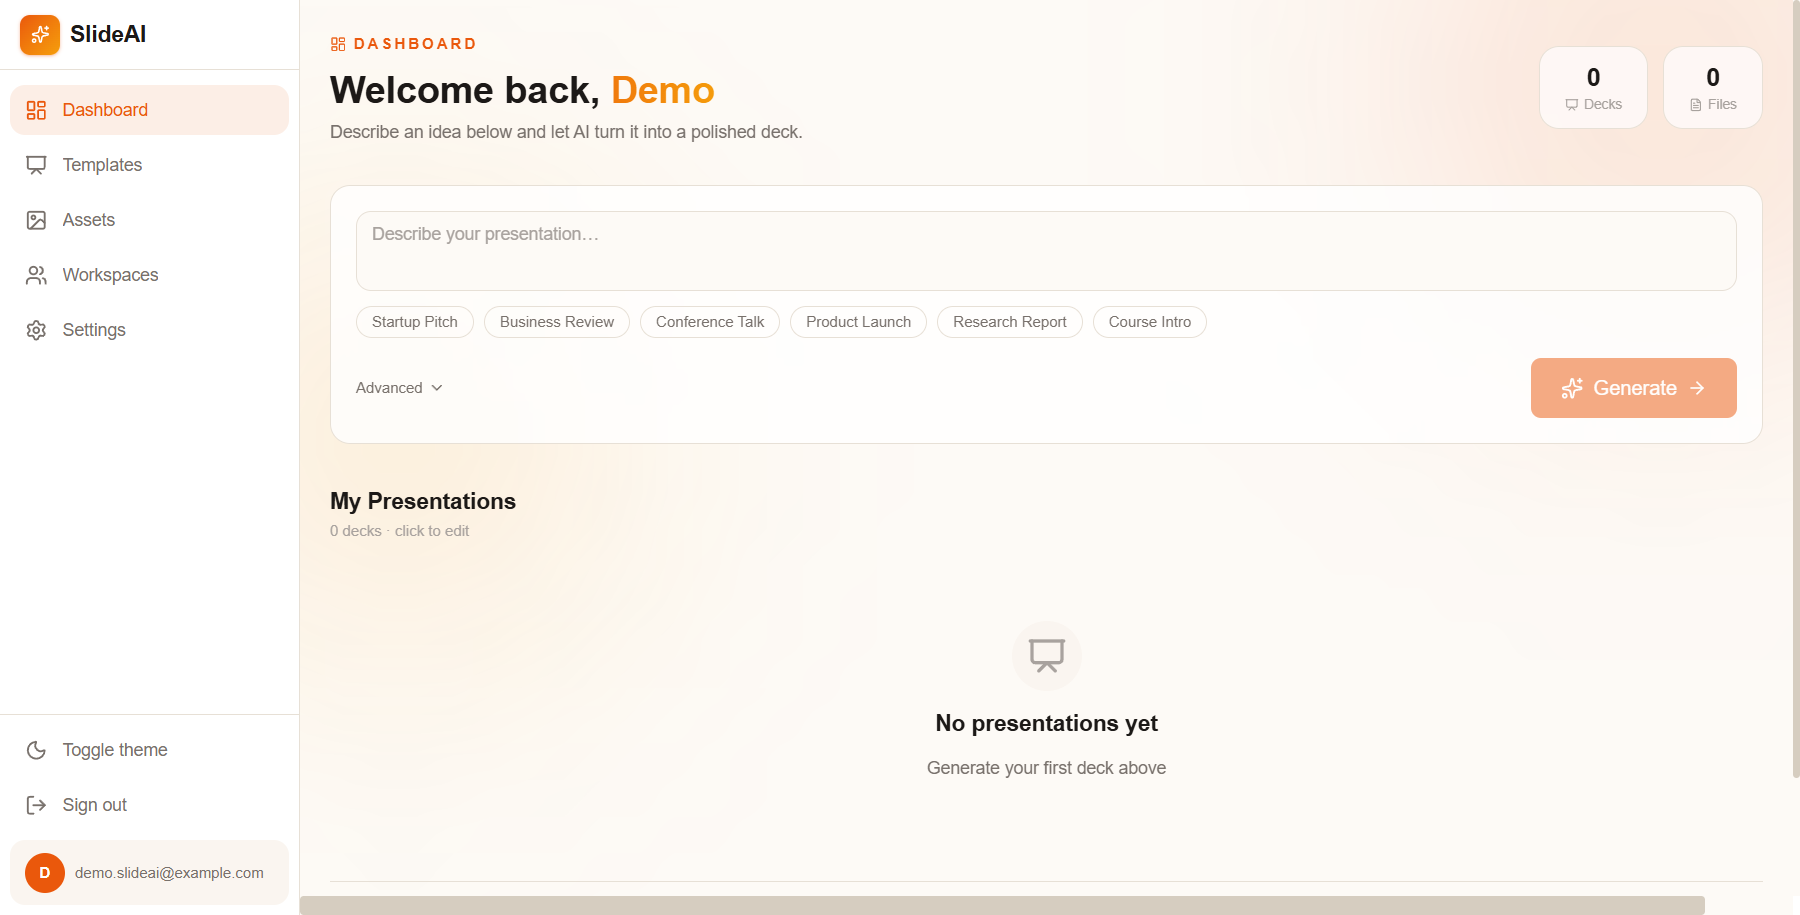
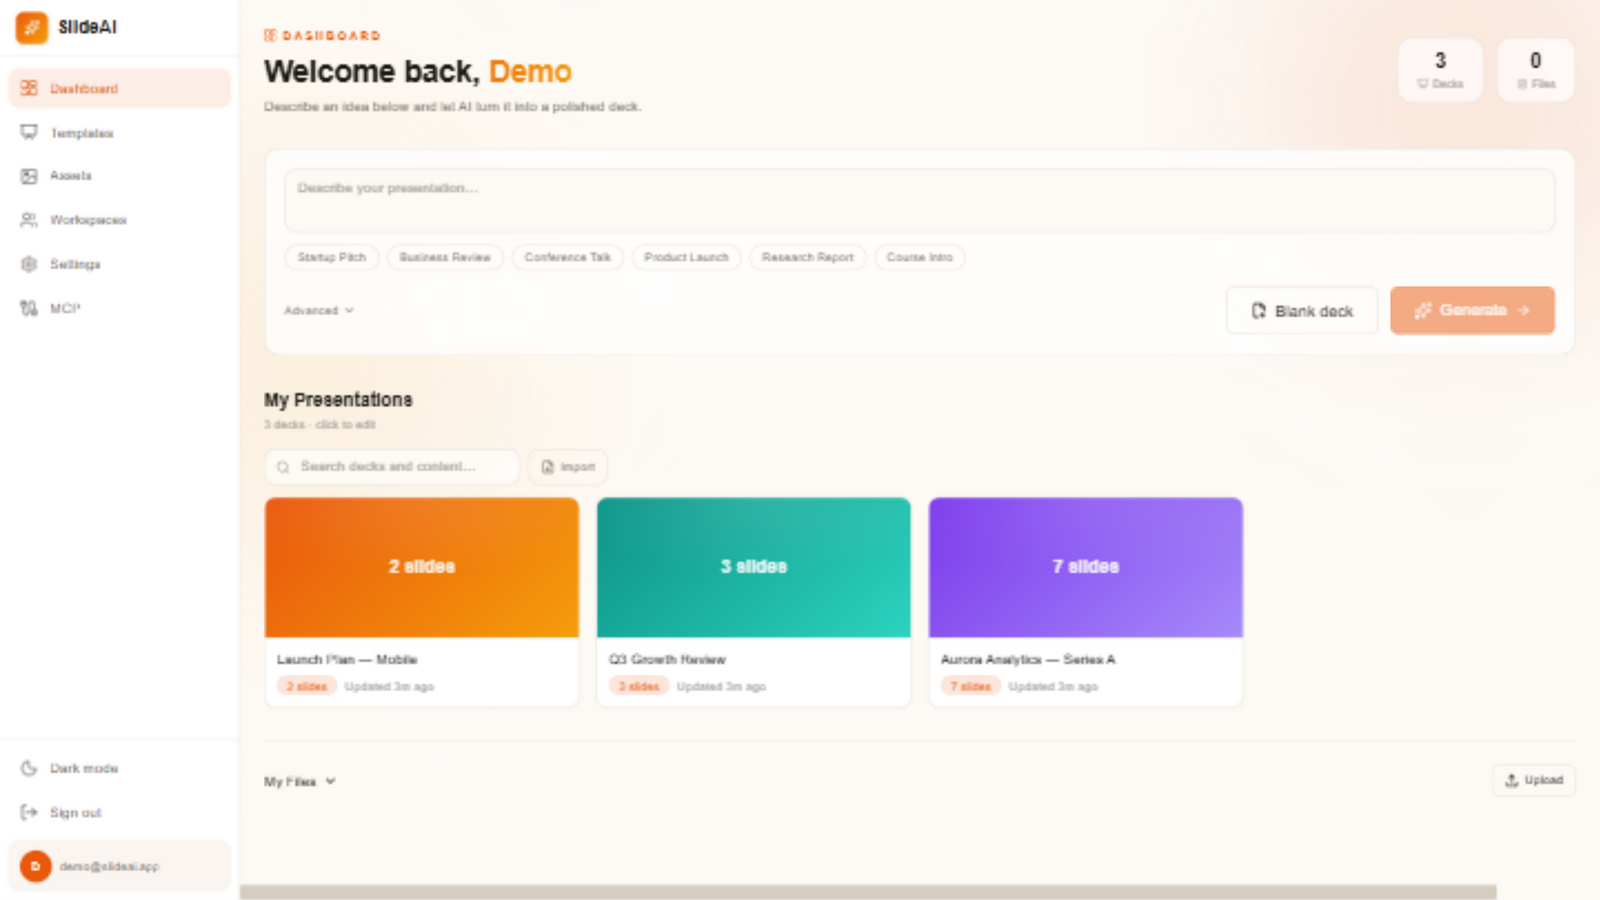
docs+fix: README refresh with new screenshots; editor rendering fixes
- README rewritten: full 2026 feature set with 11 fresh screenshots
  (dashboard, dark mode, onboarding, theme picker, custom themes,
  outline review, editor with native charts, present, analytics, MCP)
- vite proxy target configurable via BACKEND_URL (port conflicts)
- SlideRenderer: fix auto-fit Maximum-update-depth crash (the theme-picker
  zoom glitch) — effect no longer depends on scale; rAF-coalesced
  ResizeObserver + epsilon-bailed setState
- FreeElementLayer: positioned elements with a declared height now get a
  real box so percentage-height children (charts, media) can fill them
- AnalyticsPage: fix attention bars collapsing (percent height inside
  auto-height column)

diff --git a/src/components/renderer/SlideRenderer.tsx b/src/components/renderer/SlideRenderer.tsx
@@ -1,6 +1,6 @@
 import type { SlideSpec, CustomAnimationDef } from '../../types'
 import type { ReactElement } from 'react'
-import { useLayoutEffect, useState } from 'react'
+import { useLayoutEffect, useRef, useState } from 'react'
 import { defaultTokens, tokenFor, type RenderTokens } from './theme'
 import * as Layouts from './Layouts'
 import type { LayoutProps } from './Layouts'
@@ -55,26 +55,44 @@ export function slideLayout(name?: string): (p: LayoutProps) => ReactElement {
  */
 function useAutoFitScale(node: HTMLDivElement | null): number {
   const [scale, setScale] = useState(1)
+  const rafRef = useRef(0)
 
+  // NOTE: the effect depends ONLY on the node — never on `scale`. Measuring
+  // inside a scale-dependent effect re-ran fit() synchronously on every state
+  // update, and animating content (charts) made the measurement jitter enough
+  // to exceed React's nested-update limit ("Maximum update depth exceeded",
+  // a.k.a. the theme-picker zoom glitch). ResizeObserver callbacks are
+  // coalesced into rAF so at most one fit runs per frame.
   useLayoutEffect(() => {
     if (!node) return
     const fit = () => {
       // scrollHeight/clientHeight are transform-independent, so the
       // measurement is stable even while scaled.
       const overflow = node.scrollHeight - node.clientHeight
-      // Hysteresis: shrink on real overflow, restore with clear slack —
-      // prevents shrink/grow oscillation on borderline content.
-      if (overflow > 12) {
-        setScale(Math.max(0.55, node.clientHeight / node.scrollHeight))
-      } else if (scale !== 1) {
-        setScale(1)
-      }
+      setScale((cur) => {
+        let next = cur
+        if (overflow > 12) {
+          next = Math.max(0.55, (node.clientHeight - 12) / node.scrollHeight)
+        } else if (overflow <= 0) {
+          // Restore only once the content actually fits again (not merely
+          // within the slack band) so shrink/restore can never oscillate.
+          next = 1
+        }
+        // Epsilon bail: animating charts jitter the ratio by tiny amounts.
+        return Math.abs(cur - next) < 0.01 ? cur : next
+      })
     }
     fit()
-    const ro = new ResizeObserver(fit)
+    const ro = new ResizeObserver(() => {
+      cancelAnimationFrame(rafRef.current)
+      rafRef.current = requestAnimationFrame(fit)
+    })
     ro.observe(node)
-    return () => ro.disconnect()
-  }, [node, scale])
+    return () => {
+      ro.disconnect()
+      cancelAnimationFrame(rafRef.current)
+    }
+  }, [node])
 
   return scale
 }

diff --git a/src/pages/AnalyticsPage.tsx b/src/pages/AnalyticsPage.tsx
@@ -149,14 +149,18 @@ export default function AnalyticsPage() {
             <>
               <div className="flex items-end gap-1.5 h-40">
                 {slideTimes.map(({ slide, avg }) => (
-                  <div key={slide} className="flex-1 flex flex-col items-center gap-1 min-w-[14px]">
-                    <span className="text-[9px] text-text-dim tabular-nums">{Math.round(avg)}s</span>
+                  <div key={slide} className="flex-1 h-full flex flex-col items-center gap-1 min-w-[14px]">
+                    <span className="text-[9px] text-text-dim tabular-nums shrink-0">{Math.round(avg)}s</span>
                     <div
                       title={`Slide ${slide + 1}: ${Math.round(avg)}s average`}
-                      className="w-full rounded-t-md bg-gradient-to-t from-accent/40 to-accent"
-                      style={{ height: `${Math.max(4, (avg / maxAvg) * 100)}%` }}
-                    />
-                    <span className="text-[9px] text-text-dim tabular-nums">{slide + 1}</span>
+                      className="w-full flex-1 flex items-end"
+                    >
+                      <div
+                        className="w-full rounded-t-md bg-gradient-to-t from-accent/40 to-accent"
+                        style={{ height: `${Math.max(4, (avg / maxAvg) * 100)}%` }}
+                      />
+                    </div>
+                    <span className="text-[9px] text-text-dim tabular-nums shrink-0">{slide + 1}</span>
                   </div>
                 ))}
               </div>

diff --git a/vite.config.ts b/vite.config.ts
@@ -2,12 +2,16 @@ import { defineConfig } from 'vite'
 import react from '@vitejs/plugin-react'
 import tailwindcss from '@tailwindcss/vite'
 
+// Backend origin — override with BACKEND_URL when something else already
+// listens on 8000 (e.g. `BACKEND_URL=http://localhost:8001 npm run dev`).
+const backendUrl = process.env.BACKEND_URL || 'http://localhost:8000'
+
 export default defineConfig({
   plugins: [tailwindcss(), react()],
   server: {
     proxy: {
       '/api': {
-        target: 'http://localhost:8000',
+        target: backendUrl,
         changeOrigin: true,
       },
       // MCP clients (Claude Code, ZKR, ...) discover OAuth endpoints on the
@@ -15,7 +19,7 @@ export default defineConfig({
       // backend, not the SPA fallback (a 200 HTML body would break their
       // JSON parsing).
       '/.well-known/oauth': {
-        target: 'http://localhost:8000',
+        target: backendUrl,
         changeOrigin: true,
       },
     },

diff --git a/src/components/renderer/FreeElementLayer.tsx b/src/components/renderer/FreeElementLayer.tsx
@@ -279,6 +279,9 @@ export default function FreeElementLayer({ slide, tokens = defaultTokens, active
               left: `${clampPos(x + (dragging ? drag!.dx : 0))}%`,
               top: `${clampPos(y + (dragging ? drag!.dy : 0))}%`,
               width: w != null ? `${w}%` : undefined,
+              // Elements that declare a height (charts, shapes, media) get a
+              // real box so percentage-height children can fill them.
+              height: el.h != null ? `${el.h}%` : undefined,
               maxWidth: w != null ? undefined : '90%',
               pointerEvents: editing ? 'auto' : 'none',
               outline: isSelected ? `2px solid ${tokens.accent}` : undefined,

diff --git a/README.md b/README.md
@@ -2,9 +2,9 @@
 
 # Slide AI — Frontend
 
-**AI-powered presentation studio.** Describe an idea, pick a theme, and present in minutes.
+**AI-powered presentation studio.** Describe an idea, review the plan, edit like a canvas, and present in minutes.
 
-React 19 · TypeScript · Vite 7 · Tailwind v4 · Framer Motion
+React 19 · TypeScript · Vite 7 · Tailwind v4 · Framer Motion · Chart.js · Three.js
 
 </div>
 
@@ -12,17 +12,40 @@ React 19 · TypeScript · Vite 7 · Tailwind v4 · Framer Motion
 
 ## ✨ Features
 
-- **AI generation** — one prompt produces a full structured deck (real DeepSeek LLM, not templates).
-- **15 live themes** — swap palettes/fonts with an instant whole-deck preview.
-- **Inline editor** — single source of truth (`EditorProvider`), undo/redo, autosave, version history.
-- **AI chat assistant** — multi-turn agent that edits the deck via tool calls (`change_theme`, `add_slide`, `update_slide`, `reduce_text`…).
-- **Present mode** — true fullscreen with cover-scaled slides, theme-aware transitions, keyboard nav, touch swipe.
-- **Templates** — 8 curated deck structures (startup pitch, finance, education, marketing…).
-- **Assets library** — search Unsplash images and inline SVG icons.
-- **Workspaces** — share decks, invite members, role-based access (owner/admin/editor/viewer), audit log.
-- **Sharing** — public, private, or password-protected links.
-- **Export** — HTML (interactive viewer with slide navigation), PDF (vector via Playwright), PPTX (native).
-- **Settings** — theme mode, default slide count/tone/language, autosave delay, animations toggle.
+**Generation**
+- **AI generation** — one prompt produces a full structured deck (charts, cards, timelines, AI-authored custom-coded slides).
+- **Outline-first flow** — review, reorder, edit or drop the AI's slide plan *before* generating the full deck.
+- **Model selection** — pick the AI model from Settings (free-tier friendly).
+- **Templates** — 8 curated deck structures, auto-suggested from your prompt.
+- **Import** — markdown, a web page URL, or an existing **.pptx file** (text, tables and native charts become editable elements — no AI rewriting).
+
+**Editing (Canva-style)**
+- **Free canvas** — drag, resize, nudge (arrows), duplicate, copy/paste every element.
+- **Multi-select** — shift-click, group drag, and one-click align (6 modes).
+- **Smart guides** — pink alignment lines snap elements to each other's edges and centers while dragging.
+- **Native charts** — insert bar / line / pie / doughnut / radar charts, edit labels and data series inline.
+- **Z-order & lock** — bring to front, send to back, lock elements against accidental edits.
+- **Right-click context menu** and a **Ctrl+K command palette**.
+- **Deck Doctor** — scan the whole deck for overflow, overlaps and truncation, then batch-fix with AI.
+- **Version history** with one-click restore + optimistic locking (409-safe concurrent edits).
+- **Speaker notes** with voice dictation + dual-screen presenter window (BroadcastChannel).
+
+**Themes**
+- **16 live themes** — swap palettes/fonts with an instant whole-deck preview.
+- **Custom user themes** — create your own (colors, fonts, ambient motion), reuse them across decks; decks carry their tokens so they render identically everywhere.
+- **Custom-coded slides** — AI writes real HTML/CSS/JS for showpiece slides, sandboxed with Chart.js + anime.js preloaded.
+- **AI animations** — the model authors named `@keyframes` (validated by a real CSS parser) and applies them to elements.
+
+**Present & share**
+- **Present mode** — true fullscreen, cover-scaled slides, rehearsal timings, auto-play.
+- **Translate deck** — every text translated in one AI call.
+- **Sharing** — public / password / private links with **expiry** (24h → 30 days) and **iframe embed code**.
+- **Analytics** — views, attention-per-slide, drop-off and reviewer comments per deck.
+- **Export** — animated HTML, vector PDF (Playwright), native **PPTX with real editable charts**.
+- **MCP page** — connect ZKR, Claude Code, Cursor, Codex, OpenCode and other AI agents to your decks (OAuth browser flow, no copy-pasting tokens).
+
+**App**
+- **Dark mode**, first-run **onboarding tour**, workspaces with roles and audit log, brand kit, reusable slide library, asset search (Unsplash + SVG icons).
 
 ---
 
@@ -31,17 +54,35 @@ React 19 · TypeScript · Vite 7 · Tailwind v4 · Framer Motion
 ### Landing
 ![Home](screenshots/home.png)
 
-### Dashboard — AI generation bar + recent decks
+### Dashboard — generation bar, deck cards, quick actions
 ![Dashboard](screenshots/dashboard.png)
 
-### Editor — hero slide with inspector panel
+### Dashboard — dark mode
+![Dark mode](screenshots/dashboard-dark.png)
+
+### Onboarding tour (first visit)
+![Onboarding](screenshots/onboarding.png)
+
+### Theme picker — 16 themes, outline-first, custom themes
+![Theme picker](screenshots/theme-picker.png)
+
+### Custom themes — your brand, saved and reusable
+![Custom themes](screenshots/theme-picker-custom.png)
+
+### Outline review — reorder/edit the plan before generating
+![Outline](screenshots/outline.png)
+
+### Editor — native charts, canvas toolbar, AI panel
 ![Editor](screenshots/editor.png)
 
-### Editor — statistics slide + AI chat agent
-![Editor with AI](screenshots/editor-ai.png)
-
-### Present mode — fullscreen, cover-scaled slides
+### Present mode — fullscreen with ambient motion
 ![Present](screenshots/present.png)
+
+### Deck analytics — attention per slide, views, comments
+![Analytics](screenshots/analytics.png)
+
+### MCP — connect AI coding agents to your decks
+![MCP](screenshots/mcp.png)
 
 ---
 
@@ -53,10 +94,11 @@ React 19 · TypeScript · Vite 7 · Tailwind v4 · Framer Motion
 | Language | TypeScript 5.9 |
 | Build | Vite 7 |
 | Styling | Tailwind CSS v4 + custom tokens |
-| Animation | Framer Motion |
+| Animation | Framer Motion + anime.js |
+| Charts | Chart.js (react-free, token-themed) |
+| 3D ambient | Three.js (particles, auto-fallback to CSS) |
 | Routing | React Router v7 |
 | Icons | lucide-react |
-| Markdown | react-markdown + remark-gfm |
 | State | React Context (Auth, Theme, Editor, Chat) |
 | API client | Typed `fetch` wrapper in `src/lib/api.ts` |
 
@@ -66,7 +108,7 @@ React 19 · TypeScript · Vite 7 · Tailwind v4 · Framer Motion
 
 ### Prerequisites
 - Node.js ≥ 20
-- The [slide-ai-backend](https://github.com/zakaria0n/slide-ai-backend) running on `http://localhost:8000`
+- The [slide-ai-backend](https://github.com/zakaria0n/slide-ai-backend) running (default `http://localhost:8000`)
 
 ### Install & run
 
@@ -75,7 +117,11 @@ npm install
 npm run dev
 ```
 
-The Vite dev server proxies `/api/**` to `http://localhost:8000` (see `vite.config.ts`) so no CORS setup is needed locally.
+The Vite dev server proxies `/api/**` and `/.well-known/oauth` to the backend (see `vite.config.ts`) so no CORS setup is needed locally. If something else already listens on 8000, point the proxy elsewhere:
+
+```bash
+BACKEND_URL=http://localhost:8001 npm run dev
+```
 
 ### Build
 
@@ -91,23 +137,30 @@ npm run preview  # serve the production build
 ```
 src/
 ├── components/
-│   ├── ai/                  # AiEditorPanel + ChatContext (streaming)
-│   ├── auth/                # AuthLayout (shared login/signup shell)
-│   ├── editor/              # EditorContext, EditableText, HistoryPanel,
-│   │                        # ImagePickerModal, QuickAiEditModal
-│   ├── renderer/            # SlideRenderer, Layouts (23), ElementRenderer,
-│   │                        # AnimatedElement, MotionItem, FullscreenPlayer,
-│   │                        # DeckThemeProvider, ThemeSwitcher
-│   ├── theme/               # ThemePickerModal (pre-generation preview)
-│   ├── ui/                  # Button, Card, Input, Modal, Badge, Toast,
-│   │                        # Spinner, Skeleton, EmptyState, ConfirmDialog…
-│   └── ShareModal.tsx       # Public / password / private sharing
-├── context/                 # AuthContext, ThemeContext
+│   ├── ai/                  # AiEditorPanel + ChatContext (streaming agent)
+│   ├── editor/              # EditorContext (optimistic locking, history),
+│   │                        # CanvasToolbar (insert/chart/align/lock),
+│   │                        # FreeElementLayer helpers, CommandPalette,
+│   │                        # EditorContextMenu, TranslateModal,
+│   │                        # DeckDoctorModal, QuickAiEditModal…
+│   ├── renderer/            # SlideRenderer (auto-fit), Layouts (30+),
+│   │                        # ElementRenderer, DataChartView, ChartView,
+│   │                        # CustomCodeFrame (sandboxed AI slides),
+│   │                        # AmbientBackground (Three.js/CSS),
+│   │                        # FullscreenPlayer, DeckThemeProvider,
+│   │                        # ThemeSwitcher, FreeElementLayer
+│   ├── theme/               # ThemePickerModal (preview + outline flow
+│   │                        #  + custom theme creation)
+│   ├── ui/                  # Button, Card, Input, Modal, Badge, Toast…
+│   ├── OnboardingTour.tsx   # First-run 4-step welcome
+│   └── ShareModal.tsx       # Links + expiry + embed code
+├── context/                 # AuthContext, ThemeContext (light/dark)
 ├── layouts/                 # AppShell (sidebar), FullscreenShell, MarketingShell
-├── lib/                     # api.ts (typed client), settings.ts, cn.ts
+├── lib/                     # api.ts (typed client), settings.ts, imageUrls.ts
 ├── pages/                   # Home, Login, Signup, Dashboard, Editor, Present,
-│                            # Shared, Templates, Assets, Workspaces, Settings, NotFound
-├── types/                   # Shared TypeScript types
+│                            # Shared, Analytics, Templates, Assets, Workspaces,
+│                            # Settings, Mcp, OAuth authorize, NotFound
+├── types/                   # Shared TypeScript types (spec model)
 └── router.tsx               # Route table + auth guard
 ```
 
@@ -119,38 +172,45 @@ The frontend talks to the FastAPI backend at `/api/v1`. The full client is in `s
 
 | Area | Endpoints |
 |------|-----------|
-| Auth | `POST /auth/signup` · `POST /auth/signin` · `POST /auth/signout` · `GET /auth/me` · `PATCH /auth/me` |
-| Presentations | `GET/POST/PATCH/DELETE /presentations` · `POST /presentations/generate` · `GET/PUT /presentations/{id}/spec` |
-| AI edit | `POST /presentations/{id}/edit` (non-streaming) |
+| Auth | `POST /auth/signup` · `POST /auth/signin` · `POST /auth/signout` · `GET /auth/me` · `PATCH /auth/me` · device flow + `POST /auth/mcp-token` |
+| Presentations | `GET/POST/PATCH/DELETE /presentations` · `POST /presentations/generate` (supports `outline`, `theme_tokens`) · `POST /presentations/outline` · `GET/PUT /presentations/{id}/spec` (optimistic lock) |
+| Import | `POST /presentations/import` (markdown/url) · `POST /presentations/import/pptx` (multipart) |
+| AI edit | `POST /presentations/{id}/edit` · `POST /presentations/{id}/translate` |
 | Chat | `GET /presentations/{id}/chat` · `POST /presentations/{id}/chat/stream` (SSE) · `DELETE` |
 | Versions | `GET /presentations/{id}/versions` · `POST /versions/{id}/restore` |
 | Files | `GET/POST /files` · `DELETE /files/{id}` · `GET /files/{id}/url` (signed) |
 | Assets | `GET /assets/search` |
 | Templates | `GET /templates` · `GET /templates/suggest` |
-| Sharing | `POST /presentations/{id}/shares` · `GET /shared/{token}` |
-| Workspaces | `GET/POST/PATCH/DELETE /workspaces` + members + invitations + audit |
-| Export | `GET /presentations/{id}/export?format=html|pdf|pptx` |
+| Themes | `GET/POST /themes` · `DELETE /themes/{id}` (user-saved custom themes) |
+| Brand kit | `GET/PUT /brand-kit` |
+| Slide library | `GET/POST /slide-library` · `DELETE /slide-library/{id}` |
+| Sharing | `POST/GET /presentations/{id}/shares` (expiry, password) · `DELETE /shares/{token}` · `GET /shared/{token}` · `POST /shared/{token}/analytics` · `POST /shared/{token}/comments` |
+| Workspaces | CRUD + members + invitations + audit + user search |
+| Export | `GET /presentations/{id}/export?format=html\|pdf\|pptx` |
+| Models | `GET /models` |
+| MCP | `POST /mcp` (JSON-RPC) + `/.well-known/oauth-*` discovery · `/skill/slide-ai.zip` |
 
 ---
 
 ## ⚙ Configuration
 
-No env vars required for the frontend. The dev proxy targets `http://localhost:8000` by default.
+No env vars required for the frontend. The dev proxy targets `http://localhost:8000` by default (`BACKEND_URL` to override).
 
 User preferences are persisted in `localStorage` under `slideai.settings`:
 - `displayName`, `defaultSlideCount`, `defaultTone`, `defaultLanguage`
 - `autosaveDelay` (1 / 3 / 5 seconds)
 - `animationsEnabled` (toggles element cascades + slide transitions)
+- app theme (`slideai.app-theme`: `light` / `dark`)
 
 ---
 
 ## 🎨 Theming
 
-15 themes ship out of the box: `modern`, `corporate`, `startup`, `education`, `medical`, `finance`, `luxury`, `minimal`, `glass`, `dark`, `neon`, `apple`, `google`, `microsoft`, `openai`.
+**Deck themes** — 16 ship out of the box: `custom`, `modern`, `corporate`, `startup`, `education`, `medical`, `finance`, `luxury`, `minimal`, `glass`, `dark`, `neon`, `apple`, `google`, `microsoft`, `openai`.
 
-Each theme defines `bg / surface / surface2 / border / text / textMuted / textDim / accent / accent2 / accent3 / fontHeading / fontBody / radius / radiusLg / gradient` — see `src/components/renderer/theme.ts`.
+Each theme defines `bg / surface / surface2 / border / text / textMuted / textDim / accent / accent2 / accent3 / fontHeading / fontBody / radius / radiusLg / gradient / energy / ambient` — see `src/components/renderer/theme.ts`. The `DeckThemeProvider` resolves tokens (and merges `meta.themeTokens` for user-saved themes) for the editor, viewer and present mode.
 
-The `DeckThemeProvider` makes the active theme available anywhere in the editor / viewer / present mode.
+**App chrome** — light/dark toggle in the sidebar; dark mode overrides the Tailwind v4 `--color-*` variables under `html.dark` (see `src/index.css`), independent from deck themes.
 
 ---
 
